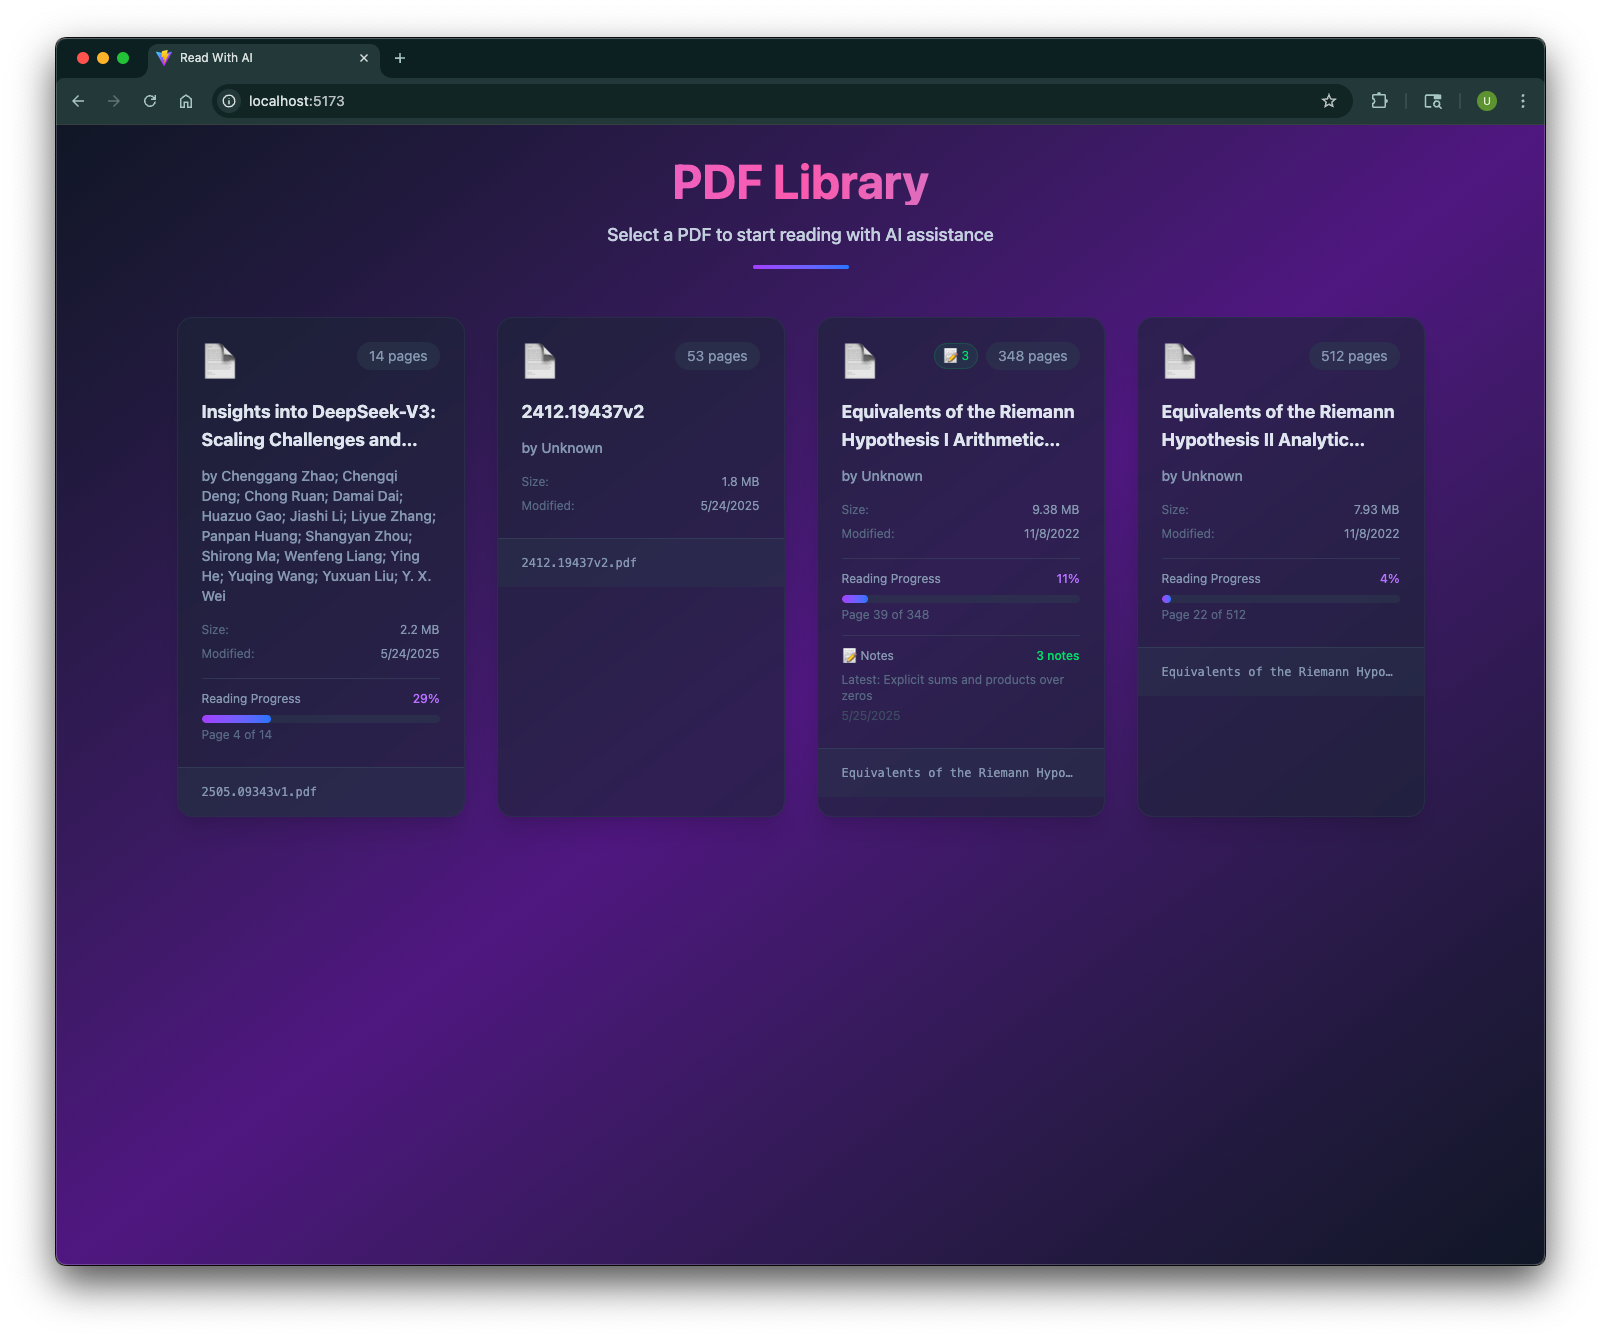
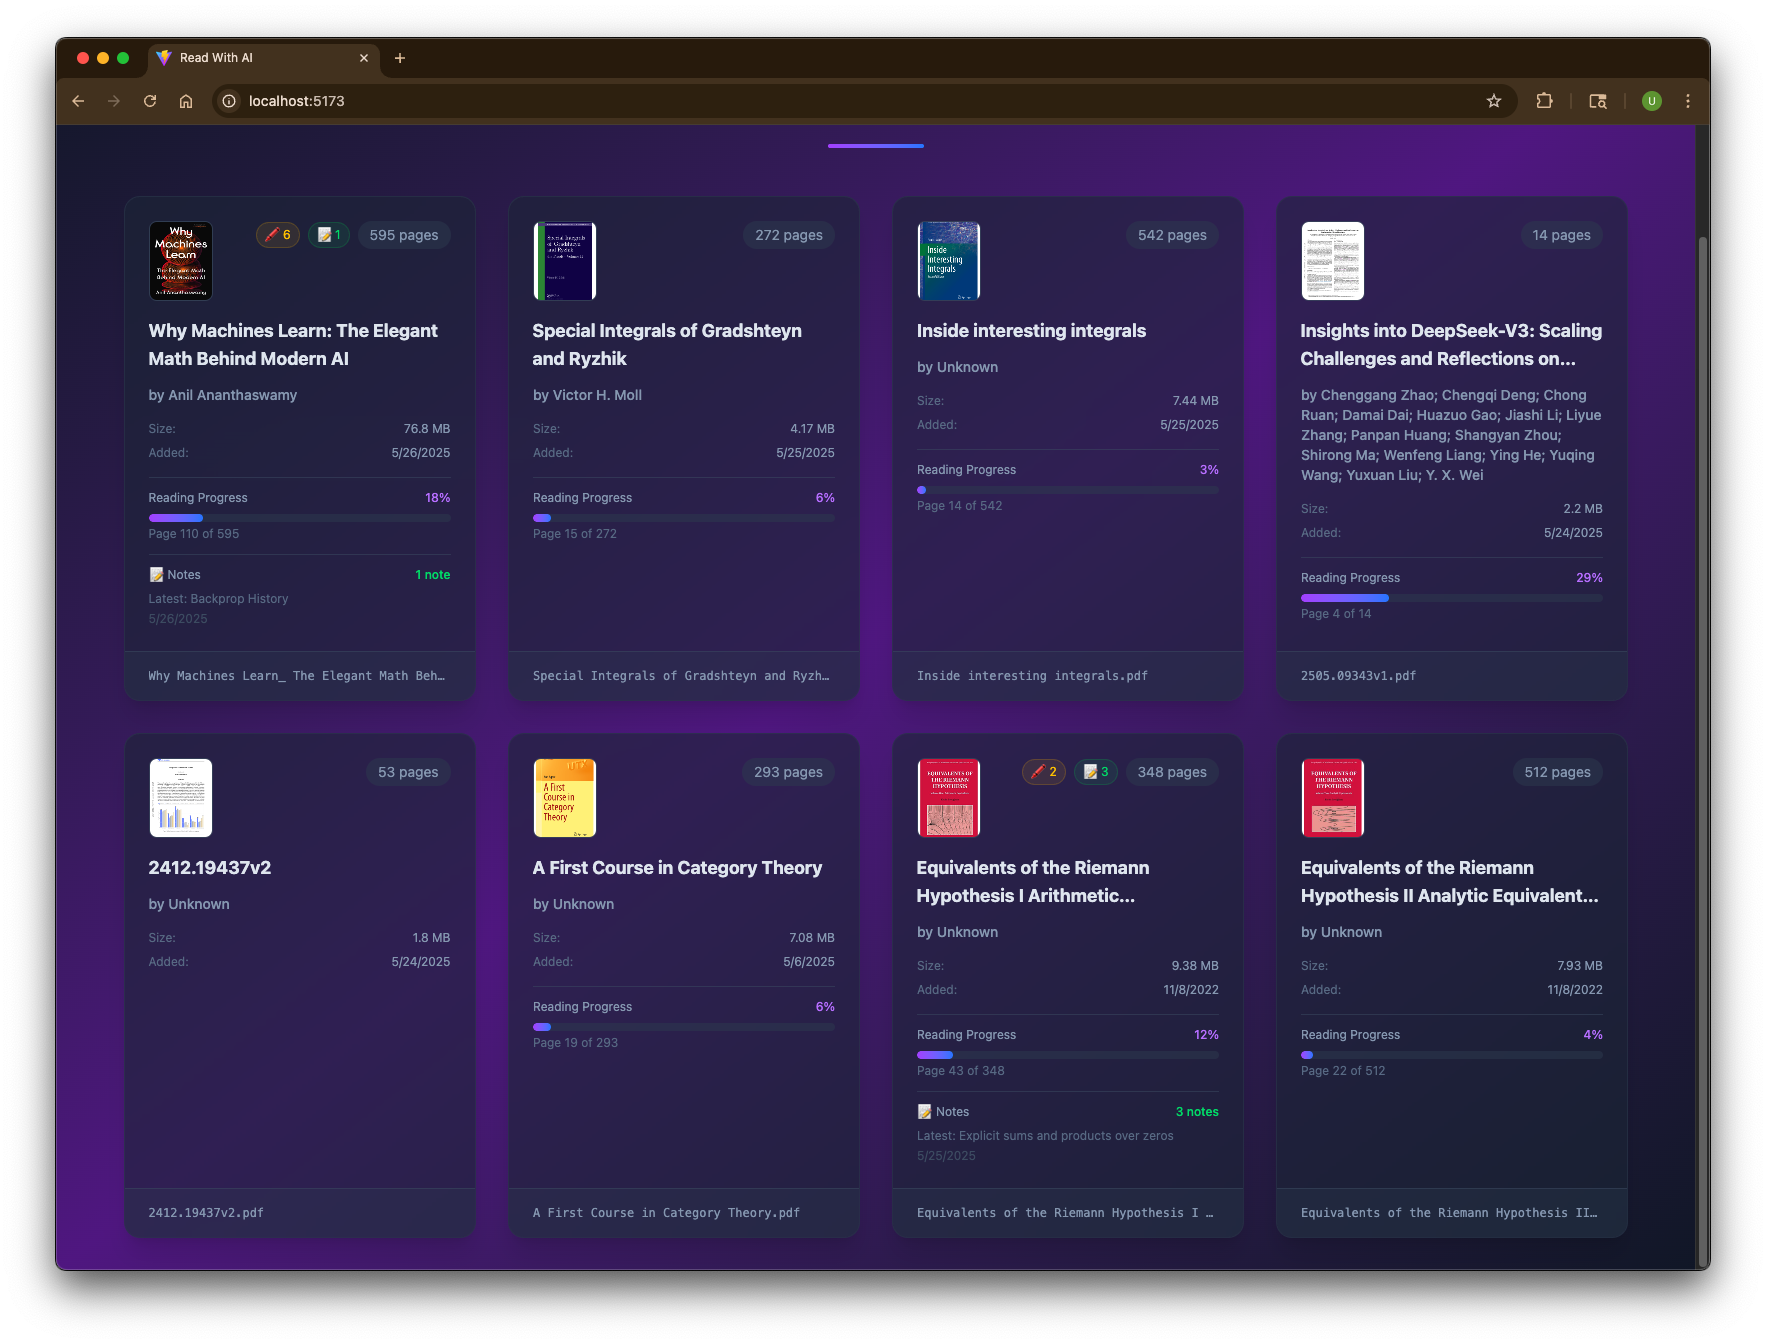
delete highlights

diff --git a/frontend/src/pages/Library.tsx b/frontend/src/pages/Library.tsx
@@ -101,12 +101,20 @@ export default function Library() {
               </p>
               <div className="text-left space-y-3">
                 <p className="text-slate-400">
-                  <span className="font-semibold text-purple-400">📁 To add PDFs:</span>
+                  <span className="font-semibold text-purple-400">
+                    📁 To add PDFs:
+                  </span>
                 </p>
                 <ol className="text-slate-400 space-y-2 ml-4">
                   <li className="flex items-start gap-2">
                     <span className="text-purple-400 font-bold">1.</span>
-                    <span>Navigate to the <code className="bg-slate-700 px-2 py-1 rounded text-sm font-mono">backend/pdfs</code> directory</span>
+                    <span>
+                      Navigate to the{' '}
+                      <code className="bg-slate-700 px-2 py-1 rounded text-sm font-mono">
+                        backend/pdfs
+                      </code>{' '}
+                      directory
+                    </span>
                   </li>
                   <li className="flex items-start gap-2">
                     <span className="text-purple-400 font-bold">2.</span>
@@ -132,24 +140,31 @@ export default function Library() {
               <div
                 key={pdf.filename}
                 onClick={() => handlePDFClick(pdf.filename)}
-                className="group bg-slate-800/60 backdrop-blur-sm rounded-2xl shadow-xl hover:shadow-2xl hover:shadow-purple-500/20 transition-all duration-300 cursor-pointer border border-slate-700/50 hover:border-purple-500/50 overflow-hidden transform hover:scale-105"
+                className="group bg-slate-800/60 backdrop-blur-sm rounded-2xl shadow-xl hover:shadow-2xl hover:shadow-purple-500/20 transition-all duration-300 cursor-pointer border border-slate-700/50 hover:border-purple-500/50 overflow-hidden transform hover:scale-105 flex flex-col"
               >
-                <div className="p-6">
+                <div className="p-6 flex-1">
                   <div className="flex items-start justify-between mb-4">
                     <div className="w-16 h-20 bg-slate-700/50 rounded-lg overflow-hidden group-hover:scale-110 transition-transform duration-200 border border-slate-600/50">
                       <img
                         src={pdfService.getThumbnailUrl(pdf.filename)}
                         alt={`${pdf.title} thumbnail`}
                         className="w-full h-full object-cover"
-                        onError={(e) => {
+                        onError={e => {
                           // Fallback to document emoji if thumbnail fails to load
                           const target = e.target as HTMLImageElement;
                           target.style.display = 'none';
-                          target.parentElement!.innerHTML = '<div class="w-full h-full flex items-center justify-center text-purple-400 text-2xl">📄</div>';
+                          target.parentElement!.innerHTML =
+                            '<div class="w-full h-full flex items-center justify-center text-purple-400 text-2xl">📄</div>';
                         }}
                       />
                     </div>
                     <div className="flex items-center gap-2">
+                      {pdf.highlights_info &&
+                        pdf.highlights_info.highlights_count > 0 && (
+                          <div className="text-xs text-yellow-400 bg-yellow-500/10 border border-yellow-500/20 px-2 py-1 rounded-full flex items-center gap-1">
+                            🖍 {pdf.highlights_info.highlights_count}
+                          </div>
+                        )}
                       {pdf.notes_info && (
                         <div className="text-xs text-green-400 bg-green-500/10 border border-green-500/20 px-2 py-1 rounded-full flex items-center gap-1">
                           📝 {pdf.notes_info.notes_count}
@@ -184,7 +199,7 @@ export default function Library() {
                       </span>
                     </div>
                     <div className="flex items-center justify-between">
-                      <span>Modified:</span>
+                      <span>Added:</span>
                       <span className="text-slate-400">
                         {formatDate(pdf.modified_date)}
                       </span>

diff --git a/frontend/src/components/HighlightOverlay.tsx b/frontend/src/components/HighlightOverlay.tsx
@@ -1,10 +1,11 @@
-import React from 'react';
+import React, { useState } from 'react';
 import type { Highlight, HighlightCoordinates } from '../types/highlights';
 
 interface HighlightOverlayProps {
   highlights: Highlight[];
   pageNumber: number;
   scale: number;
+  selectedHighlightId?: string;
   onHighlightClick?: (highlight: Highlight) => void;
   onHighlightDelete?: (highlightId: string) => void;
 }
@@ -13,6 +14,7 @@ export default function HighlightOverlay({
   highlights,
   pageNumber,
   scale,
+  selectedHighlightId,
   onHighlightClick,
   onHighlightDelete,
 }: HighlightOverlayProps) {
@@ -32,6 +34,7 @@ export default function HighlightOverlay({
             highlight={highlight}
             coordinates={coord}
             currentScale={scale}
+            isSelected={selectedHighlightId === highlight.id}
             onClick={() => onHighlightClick?.(highlight)}
             onDelete={() => onHighlightDelete?.(highlight.id)}
           />
@@ -45,6 +48,7 @@ interface HighlightRectProps {
   highlight: Highlight;
   coordinates: HighlightCoordinates;
   currentScale: number;
+  isSelected?: boolean;
   onClick?: () => void;
   onDelete?: () => void;
 }
@@ -53,9 +57,12 @@ function HighlightRect({
   highlight,
   coordinates,
   currentScale,
+  isSelected = false,
   onClick,
   onDelete,
 }: HighlightRectProps) {
+  const [isHovered, setIsHovered] = useState(false);
+
   // Calculate scaled coordinates
   // The coordinates were stored at a specific zoom level, so we need to adjust for current zoom
   const scaleRatio = currentScale / coordinates.zoom;
@@ -76,21 +83,43 @@ function HighlightRect({
     onDelete?.();
   };
 
+  const handleDeleteClick = (e: React.MouseEvent) => {
+    e.preventDefault();
+    e.stopPropagation();
+    onDelete?.();
+  };
+
   return (
     <div
-      className="absolute pointer-events-auto cursor-pointer hover:opacity-80 transition-opacity"
+      className={`absolute pointer-events-auto cursor-pointer hover:opacity-80 transition-all group ${
+        isSelected ? 'ring-2 ring-blue-400 ring-opacity-70' : ''
+      }`}
       style={{
         left: `${scaledX}px`,
         top: `${scaledY}px`,
         width: `${scaledWidth}px`,
         height: `${scaledHeight}px`,
         backgroundColor: highlight.color,
-        opacity: 0.3,
-        mixBlendMode: 'multiply', // This creates a nice highlight effect
+        opacity: isSelected ? 0.5 : 0.3,
+        // Note: Removed mixBlendMode as it was interfering with mouse events
+        zIndex: 10,
       }}
       onClick={handleClick}
       onContextMenu={handleRightClick}
-      title={`"${highlight.selectedText}" - Right-click to delete`}
-    />
+      onMouseEnter={() => setIsHovered(true)}
+      onMouseLeave={() => setIsHovered(false)}
+      title={`"${highlight.selectedText.substring(0, 50)}${highlight.selectedText.length > 50 ? '...' : ''}" - Click to select, right-click or use × button to delete${isSelected ? ' (Selected - Press Delete key to remove)' : ''}`}
+    >
+      {/* Delete button that appears on hover */}
+      {isHovered && (
+        <button
+          onClick={handleDeleteClick}
+          className="absolute -top-2 -right-2 w-5 h-5 bg-red-500 hover:bg-red-600 text-white text-xs rounded-full flex items-center justify-center shadow-lg transition-colors z-20"
+          title="Delete highlight"
+        >
+          ×
+        </button>
+      )}
+    </div>
   );
 }

diff --git a/frontend/src/components/PDFViewer.tsx b/frontend/src/components/PDFViewer.tsx
@@ -6,6 +6,7 @@ import type {
   TextSelection,
   HighlightCoordinates,
   HighlightColor,
+  Highlight,
 } from '../types/highlights';
 import HighlightOverlay from './HighlightOverlay';
 import { useHighlights } from '../hooks/useHighlights';
@@ -62,6 +63,11 @@ export default function PDFViewer({
     selection: null,
   });
 
+  // Selected highlight state for keyboard shortcuts
+  const [selectedHighlight, setSelectedHighlight] = useState<Highlight | null>(
+    null
+  );
+
   const pdfContainerRef = useRef<HTMLDivElement>(null);
 
   // Highlight management
@@ -78,6 +84,28 @@ export default function PDFViewer({
       console.warn('Error saving zoom to localStorage:', error);
     }
   }, [scale]);
+
+  // Keyboard shortcuts
+  useEffect(() => {
+    const handleKeyDown = (event: KeyboardEvent) => {
+      // Delete key - delete selected highlight
+      if (event.key === 'Delete' && selectedHighlight) {
+        event.preventDefault();
+        handleHighlightDelete(selectedHighlight.id);
+        setSelectedHighlight(null);
+      }
+
+      // Escape key - clear selection and context menu
+      if (event.key === 'Escape') {
+        setSelectedHighlight(null);
+        setContextMenu(prev => ({ ...prev, visible: false }));
+        window.getSelection()?.removeAllRanges();
+      }
+    };
+
+    document.addEventListener('keydown', handleKeyDown);
+    return () => document.removeEventListener('keydown', handleKeyDown);
+  }, [selectedHighlight]);
 
   const onDocumentLoadSuccess = useCallback(
     ({ numPages }: { numPages: number }) => {
@@ -307,7 +335,17 @@ export default function PDFViewer({
     const success = await deleteHighlight(highlightId);
     if (success) {
       console.log('Highlight deleted:', highlightId);
+      // Clear selection if the deleted highlight was selected
+      if (selectedHighlight?.id === highlightId) {
+        setSelectedHighlight(null);
+      }
     }
+  };
+
+  // Handle highlight click (for selection)
+  const handleHighlightClick = (highlight: Highlight) => {
+    setSelectedHighlight(highlight);
+    console.log('Highlight selected:', highlight.id);
   };
 
   if (!filename) {
@@ -373,11 +411,17 @@ export default function PDFViewer({
               Next
             </button>
 
-            {/* Debug: Show highlight count */}
+            {/* Debug: Show highlight count and selection status */}
             {highlights.length > 0 && (
               <span className="text-xs text-green-400 ml-2">
                 {highlights.filter(h => h.pageNumber === currentPage).length}{' '}
                 highlights
+              </span>
+            )}
+            {selectedHighlight && (
+              <span className="text-xs text-blue-400 ml-2 px-2 py-1 bg-blue-900 rounded">
+                Selected: "{selectedHighlight.selectedText.substring(0, 20)}..."
+                (Press Delete to remove)
               </span>
             )}
           </div>
@@ -420,6 +464,8 @@ export default function PDFViewer({
                 highlights={highlights}
                 pageNumber={currentPage}
                 scale={scale}
+                selectedHighlightId={selectedHighlight?.id}
+                onHighlightClick={handleHighlightClick}
                 onHighlightDelete={handleHighlightDelete}
               />
             </div>

diff --git a/frontend/src/types/pdf.ts b/frontend/src/types/pdf.ts
@@ -11,6 +11,10 @@ export interface NotesInfo {
   latest_note_title: string;
 }
 
+export interface HighlightsInfo {
+  highlights_count: number;
+}
+
 export interface PDF {
   filename: string;
   title: string;
@@ -21,6 +25,7 @@ export interface PDF {
   created_date: string;
   reading_progress?: ReadingProgress | null;
   notes_info?: NotesInfo | null;
+  highlights_info?: HighlightsInfo | null;
   error?: string;
 }
 

diff --git a/backend/app/routers/pdf.py b/backend/app/routers/pdf.py
@@ -27,8 +27,9 @@ async def list_pdfs() -> List[Dict[str, Any]]:
         pdfs = pdf_service.list_pdfs()
         all_progress = db_service.get_all_reading_progress()
         all_notes = db_service.get_notes_count_by_pdf()
+        all_highlights = db_service.get_highlights_count_by_pdf()
 
-        # Add reading progress and notes info to each PDF
+        # Add reading progress, notes info, and highlights info to each PDF
         for pdf in pdfs:
             filename = pdf.get("filename")
 
@@ -58,6 +59,15 @@ async def list_pdfs() -> List[Dict[str, Any]]:
                 }
             else:
                 pdf["notes_info"] = None
+
+            # Add highlights information
+            if filename and filename in all_highlights:
+                highlights_info = all_highlights[filename]
+                pdf["highlights_info"] = {
+                    "highlights_count": highlights_info["highlights_count"],
+                }
+            else:
+                pdf["highlights_info"] = None
 
         return pdfs
     except Exception as e:
@@ -176,19 +186,21 @@ async def get_pdf_thumbnail(filename: str):
     """
     try:
         thumbnail_path = pdf_service.get_thumbnail_path(filename)
-        
+
         if not thumbnail_path.exists():
             raise HTTPException(status_code=404, detail="Thumbnail not found")
-        
+
         return FileResponse(
             path=str(thumbnail_path),
             media_type="image/png",
-            filename=f"{filename}_thumb.png"
+            filename=f"{filename}_thumb.png",
         )
     except FileNotFoundError:
         raise HTTPException(status_code=404, detail="PDF not found")
     except Exception as e:
-        raise HTTPException(status_code=500, detail=f"Error generating thumbnail: {str(e)}")
+        raise HTTPException(
+            status_code=500, detail=f"Error generating thumbnail: {str(e)}"
+        )
 
 
 @router.get("/progress/all")
@@ -203,25 +215,3 @@ async def get_all_reading_progress() -> Dict[str, Any]:
         raise HTTPException(
             status_code=500, detail=f"Error getting reading progress: {str(e)}"
         )
-
-
-@router.get("/{filename}/thumbnail")
-async def get_pdf_thumbnail(filename: str):
-    """
-    Get a thumbnail image of the first page of the PDF
-    """
-    try:
-        thumbnail_path = pdf_service.get_thumbnail_path(filename)
-        
-        if not thumbnail_path.exists():
-            raise HTTPException(status_code=404, detail="Thumbnail not found")
-        
-        return FileResponse(
-            path=str(thumbnail_path),
-            media_type="image/png",
-            filename=f"{filename}_thumb.png"
-        )
-    except FileNotFoundError:
-        raise HTTPException(status_code=404, detail="PDF not found")
-    except Exception as e:
-        raise HTTPException(status_code=500, detail=f"Error generating thumbnail: {str(e)}")

diff --git a/README.md b/README.md
@@ -54,6 +54,12 @@ Ask questions, take notes, and engage in conversations about the document conten
 
 ![Notes](docs/images/Notes.png)
 
+**🔍 Highlight Management**
+Easily highlight text within PDFs and manage your highlights with color-coded options. Highlights are saved and can be reviewed or edited later, providing a seamless way to track important information.
+
+![Highlighting](docs/images/Highlighting.png)
+
+
 ### How It Works
 
 1. **Upload or Select PDFs**: Choose from your local PDF collection
